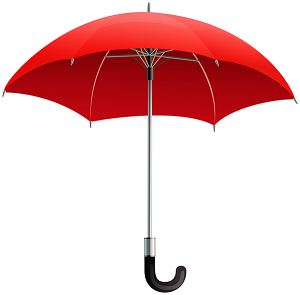
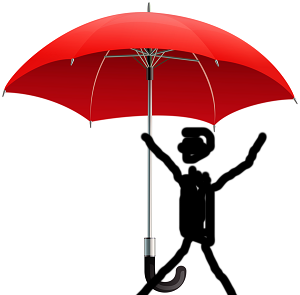
Adding mike image and collision detection with raindrops

Changed region(s): [[0.45, 0.4271, 0.9, 1.0]]

diff --git a/GameApp.py b/GameApp.py
@@ -1,32 +1,57 @@
-import pygame, sys, random
+import pygame, sys, random, time
 from pygame.locals import *
 
 pygame.init()
 pygame.display.set_caption("First Program")
 
 mike_umbrella_image = pygame.image.load("images/umbrella.png")
+mike_image = pygame.image.load("images/mike.png")
+cloud_image = pygame.image.load("images/cloud.png")
 
-screen = pygame.display.set_mode((1000,600))
+screen = pygame.display.set_mode((1300,700))
 
 clock = pygame.time.Clock()
 
+last_hit_time = 0
+
 raindrop_spawn_time = 0
+
+class Cloud:
+    def __init__(self):
+        self.x = 500
+        self.y = 0
+
+    def rain(self):
+        for i in range(10):
+            raindrops.append(Raindrop(random.randint(self.x+75, self.x+300), self.y+150))
+
+    def draw(self):
+        screen.blit(cloud_image, (self.x, self.y))
+
+    def move(self):
+        if pressed_keys[K_RIGHT]:        
+            self.x += 1
+        if pressed_keys[K_LEFT]:        
+            self.x -= 1
 
 class Mike:
     def __init__(self):
-        self.x = 300
-        self.y = 100
+        self.x = 600
+        self.y = 350
 
     def draw(self):
-        screen.blit(mike_umbrella_image, (self.x, self.y))
+        if time.time() > last_hit_time + 1:
+            screen.blit(mike_image, (self.x, self.y))
+        else:
+            screen.blit(mike_umbrella_image, (self.x, self.y))
 
     def hit_by(self, raindrop):
-        return pygame.Rect(self.x, self.y, 170, 300).collidepoint((raindrop.x, raindrop.y))
+        return pygame.Rect(self.x, self.y, 250, 300).collidepoint((raindrop.x, raindrop.y))
 
 class Raindrop:
-    def __init__(self):
-        self.x = random.randint(0, 1000)
-        self.y = -8
+    def __init__(self, x, y):
+        self.x = x
+        self.y = y
         self.speed = random.randint(5, 18)
 
     def move(self):
@@ -34,30 +59,38 @@ class Raindrop:
 
     def draw(self):
         pygame.draw.line(screen, (0,0,0), (self.x, self.y), (self.x, self.y+8), 1)
+
     def off_screen(self):
         return self.y > 800
 
 raindrops = []
 mike = Mike()
+cloud = Cloud()
 
 while 1:
     clock.tick(60)
     for event in pygame.event.get():
         if event.type == pygame.QUIT:
             sys.exit()
-        raindrops.append(Raindrop())
-        #pressed_keys = pygame.key.get_pressed()
-        #if pressed_keys[K_RIGHT]:        
-        #    xpos += 1
-        #if pressed_keys[K_LEFT]:        
-        #    xpos -= 1
+        
+        pressed_keys = pygame.key.get_pressed()
+
         screen.fill((255,255,255))
         mike.draw()
+        cloud.draw()
+        cloud.rain()
+        cloud.move()
         i = 0
         while i < len(raindrops):
             raindrops[i].move()
             raindrops[i].draw()
-            if raindrops[i].off_screen() or mike.hit_by(raindrops[i]):
+            flag = False
+            if raindrops[i].off_screen():
+                flag = True
+            if mike.hit_by(raindrops[i]):
+                flag = True
+                last_hit_time = time.time()
+            if flag:
                 del raindrops[i]
                 i -= 1
             i += 1
